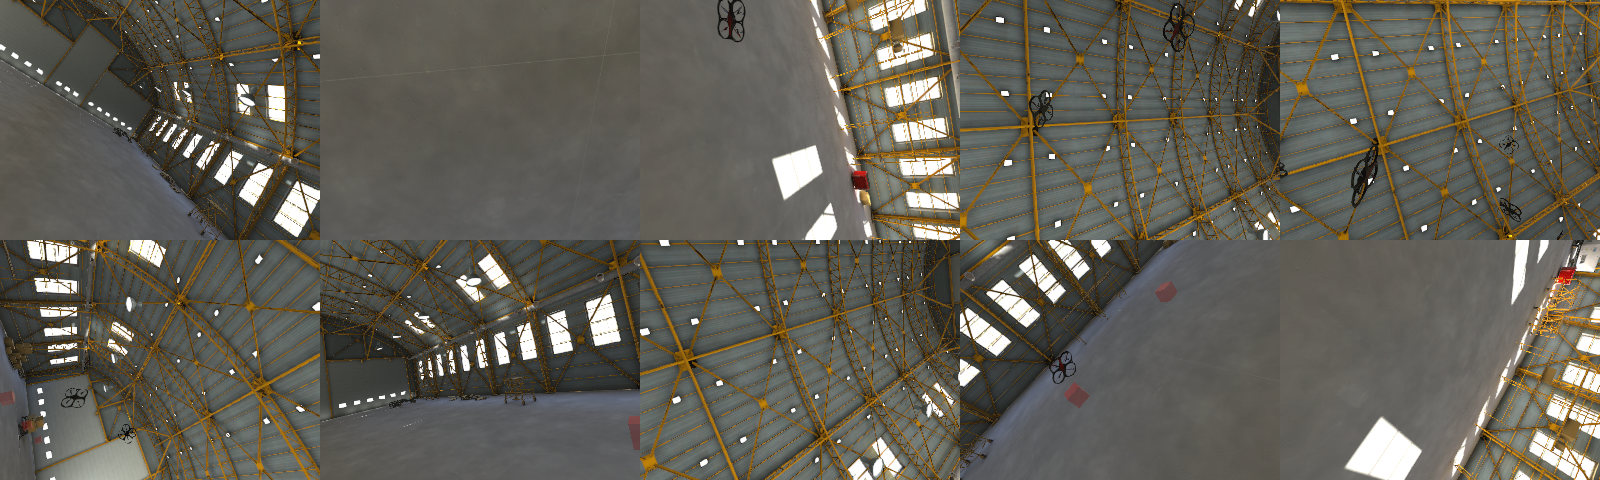
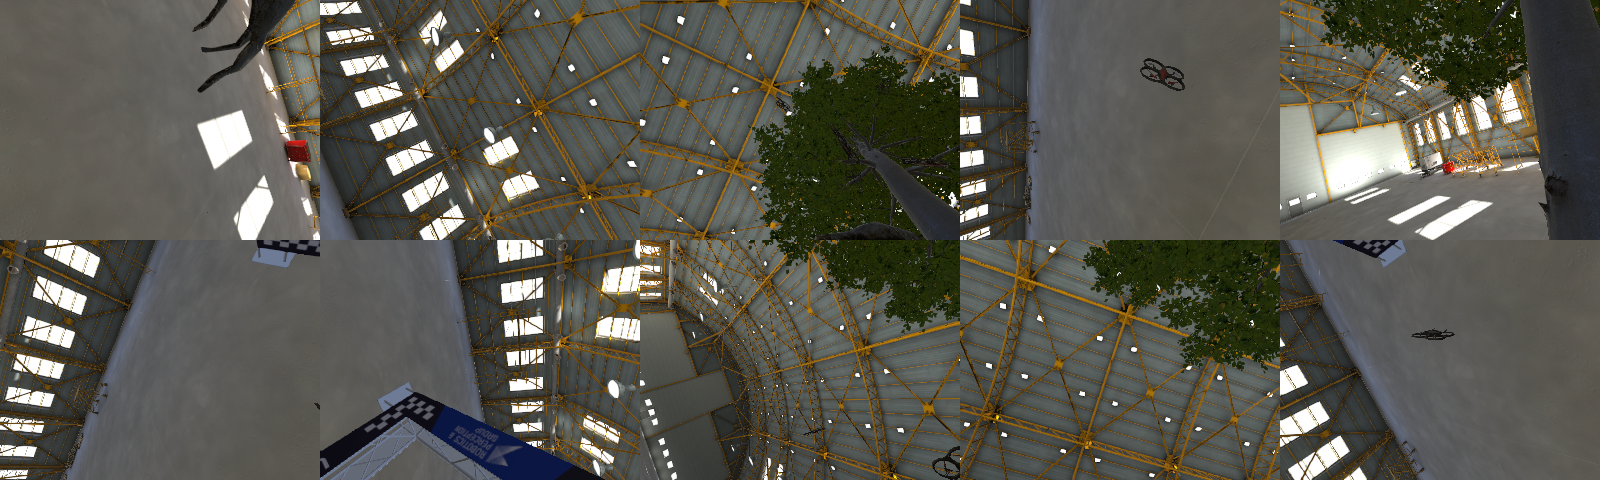
Add dynamic obstacles.

diff --git a/envsim/src/visionsim_node.cpp b/envsim/src/visionsim_node.cpp
@@ -229,8 +229,7 @@ void VisionSim::publishImages(const QuadState &state) {
   std::vector<std::shared_ptr<flightlib::StaticObject>> static_objects =
     vision_env_.getObjects();
   for (int i = 0; i < int(static_objects.size()); i++) {
-    Vector<3> obj_position = unity_quad_state.p + Vector<3>(i, 0, 0);
-    static_objects[i]->setPosition(obj_position);
+    static_objects[i]->run(0.02);
   }
 
   vision_env_.updateUnity(frame_id_);

diff --git a/envtest/envpy/run_vision_demo.py b/envtest/envpy/run_vision_demo.py
@@ -37,7 +37,7 @@ def main():
         cfg["unity"]["render"] = "yes"
 
 
-    os.system(os.environ["FLIGHTMARE_PATH"] + "/flightrender/RPG_Flightmare.x86_64 &")
+    # os.system(os.environ["FLIGHTMARE_PATH"] + "/flightrender/RPG_Flightmare.x86_64 &")
 
     cfg["simulation"]["num_envs"] = 10
 
